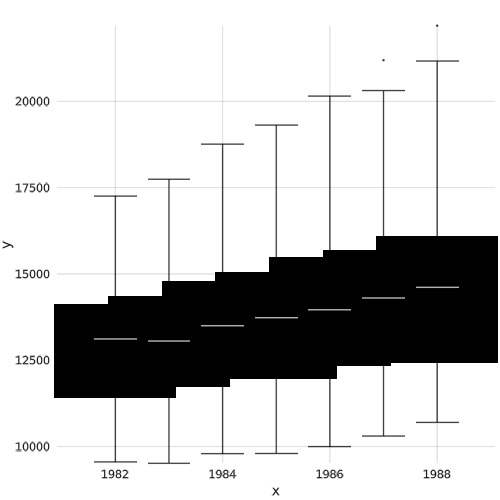
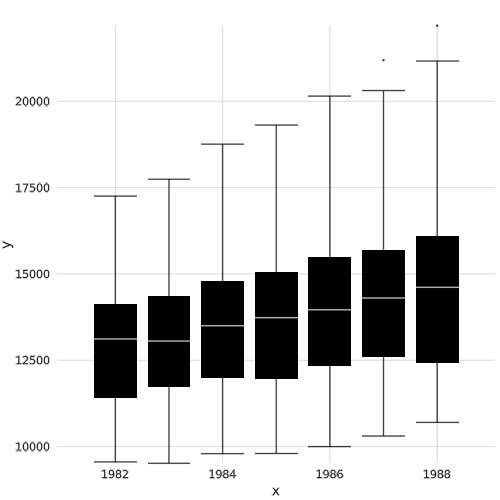
update box + violin

Changed region(s): [[0.09, 0.54, 0.51, 0.81], [0.54, 0.45, 0.84, 0.78], [0.9, 0.45, 1.0, 0.75]]

diff --git a/gallery/violin_and_box_plot/index.html b/gallery/violin_and_box_plot/index.html
@@ -11,9 +11,8 @@
 
  d = dataset(&quot;Ecdat&quot;,&quot;Fatality&quot;);
 
- p = violin(Data(d), :Year, :Perinc, color = :gray)
-
- boxplot!(p, Data(d), :Year, :Perinc, color = :black)
+ violin(d.Year, d.Perinc, color = :gray)
+ boxplot!(d.Year, d.Perinc, color = :black)
 
 
 </code></pre>

diff --git a/gallery/violin_plot/index.html b/gallery/violin_plot/index.html
@@ -9,7 +9,7 @@
  using RDatasets, StatsMakie
 
 
- d = dataset(&quot;Ecdat&quot;,&quot;Fatality&quot;);
+ d = dataset(&quot;Ecdat&quot;, &quot;Fatality&quot;);
 
  violin(Data(d), :Year, :Perinc)
 

diff --git a/gallery/box_plot/index.html b/gallery/box_plot/index.html
@@ -10,7 +10,6 @@
 
 
  d = dataset(&quot;Ecdat&quot;,&quot;Fatality&quot;)
-
  boxplot(Data(d), :Year, :Perinc)
 
 

diff --git a/gallery/violin_and_box_plot/index.md b/gallery/violin_and_box_plot/index.md
@@ -7,9 +7,8 @@ using AbstractPlotting
 
  d = dataset("Ecdat","Fatality");
 
- p = violin(Data(d), :Year, :Perinc, color = :gray)
-
- boxplot!(p, Data(d), :Year, :Perinc, color = :black)
+ violin(d.Year, d.Perinc, color = :gray)
+ boxplot!(d.Year, d.Perinc, color = :black)
 
 
 

diff --git a/gallery/violin_plot/index.md b/gallery/violin_plot/index.md
@@ -5,7 +5,7 @@ using AbstractPlotting
  using RDatasets, StatsMakie
 
 
- d = dataset("Ecdat","Fatality");
+ d = dataset("Ecdat", "Fatality");
 
  violin(Data(d), :Year, :Perinc)
 

diff --git a/gallery/box_plot/index.md b/gallery/box_plot/index.md
@@ -6,7 +6,6 @@ using AbstractPlotting
 
 
  d = dataset("Ecdat","Fatality")
-
  boxplot(Data(d), :Year, :Perinc)
 
 
